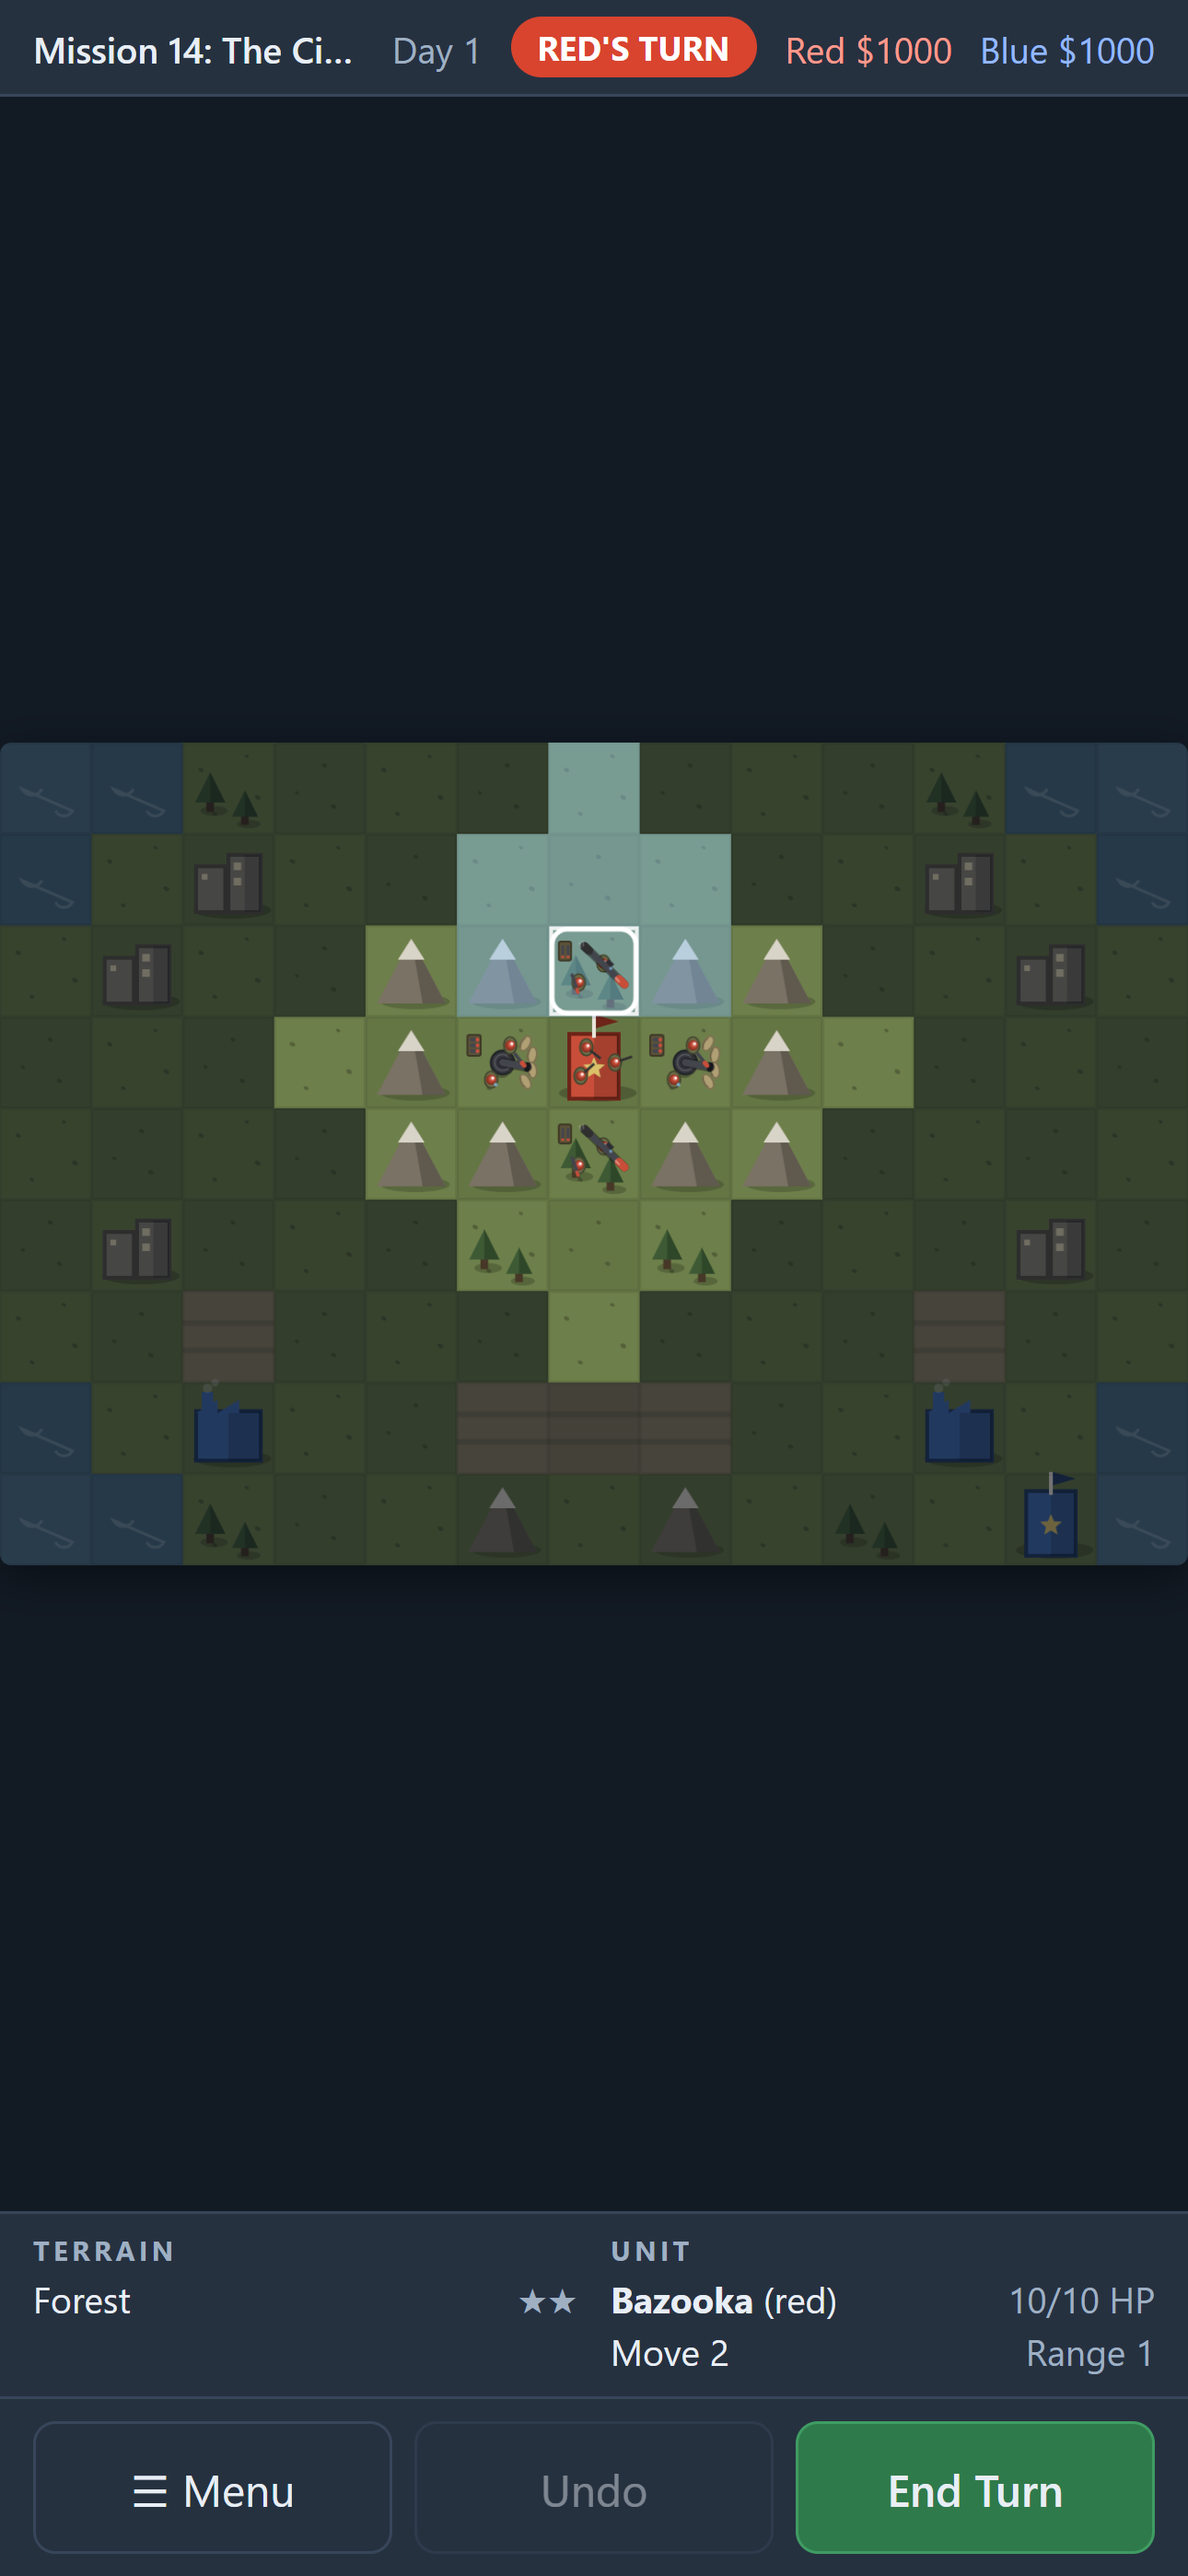
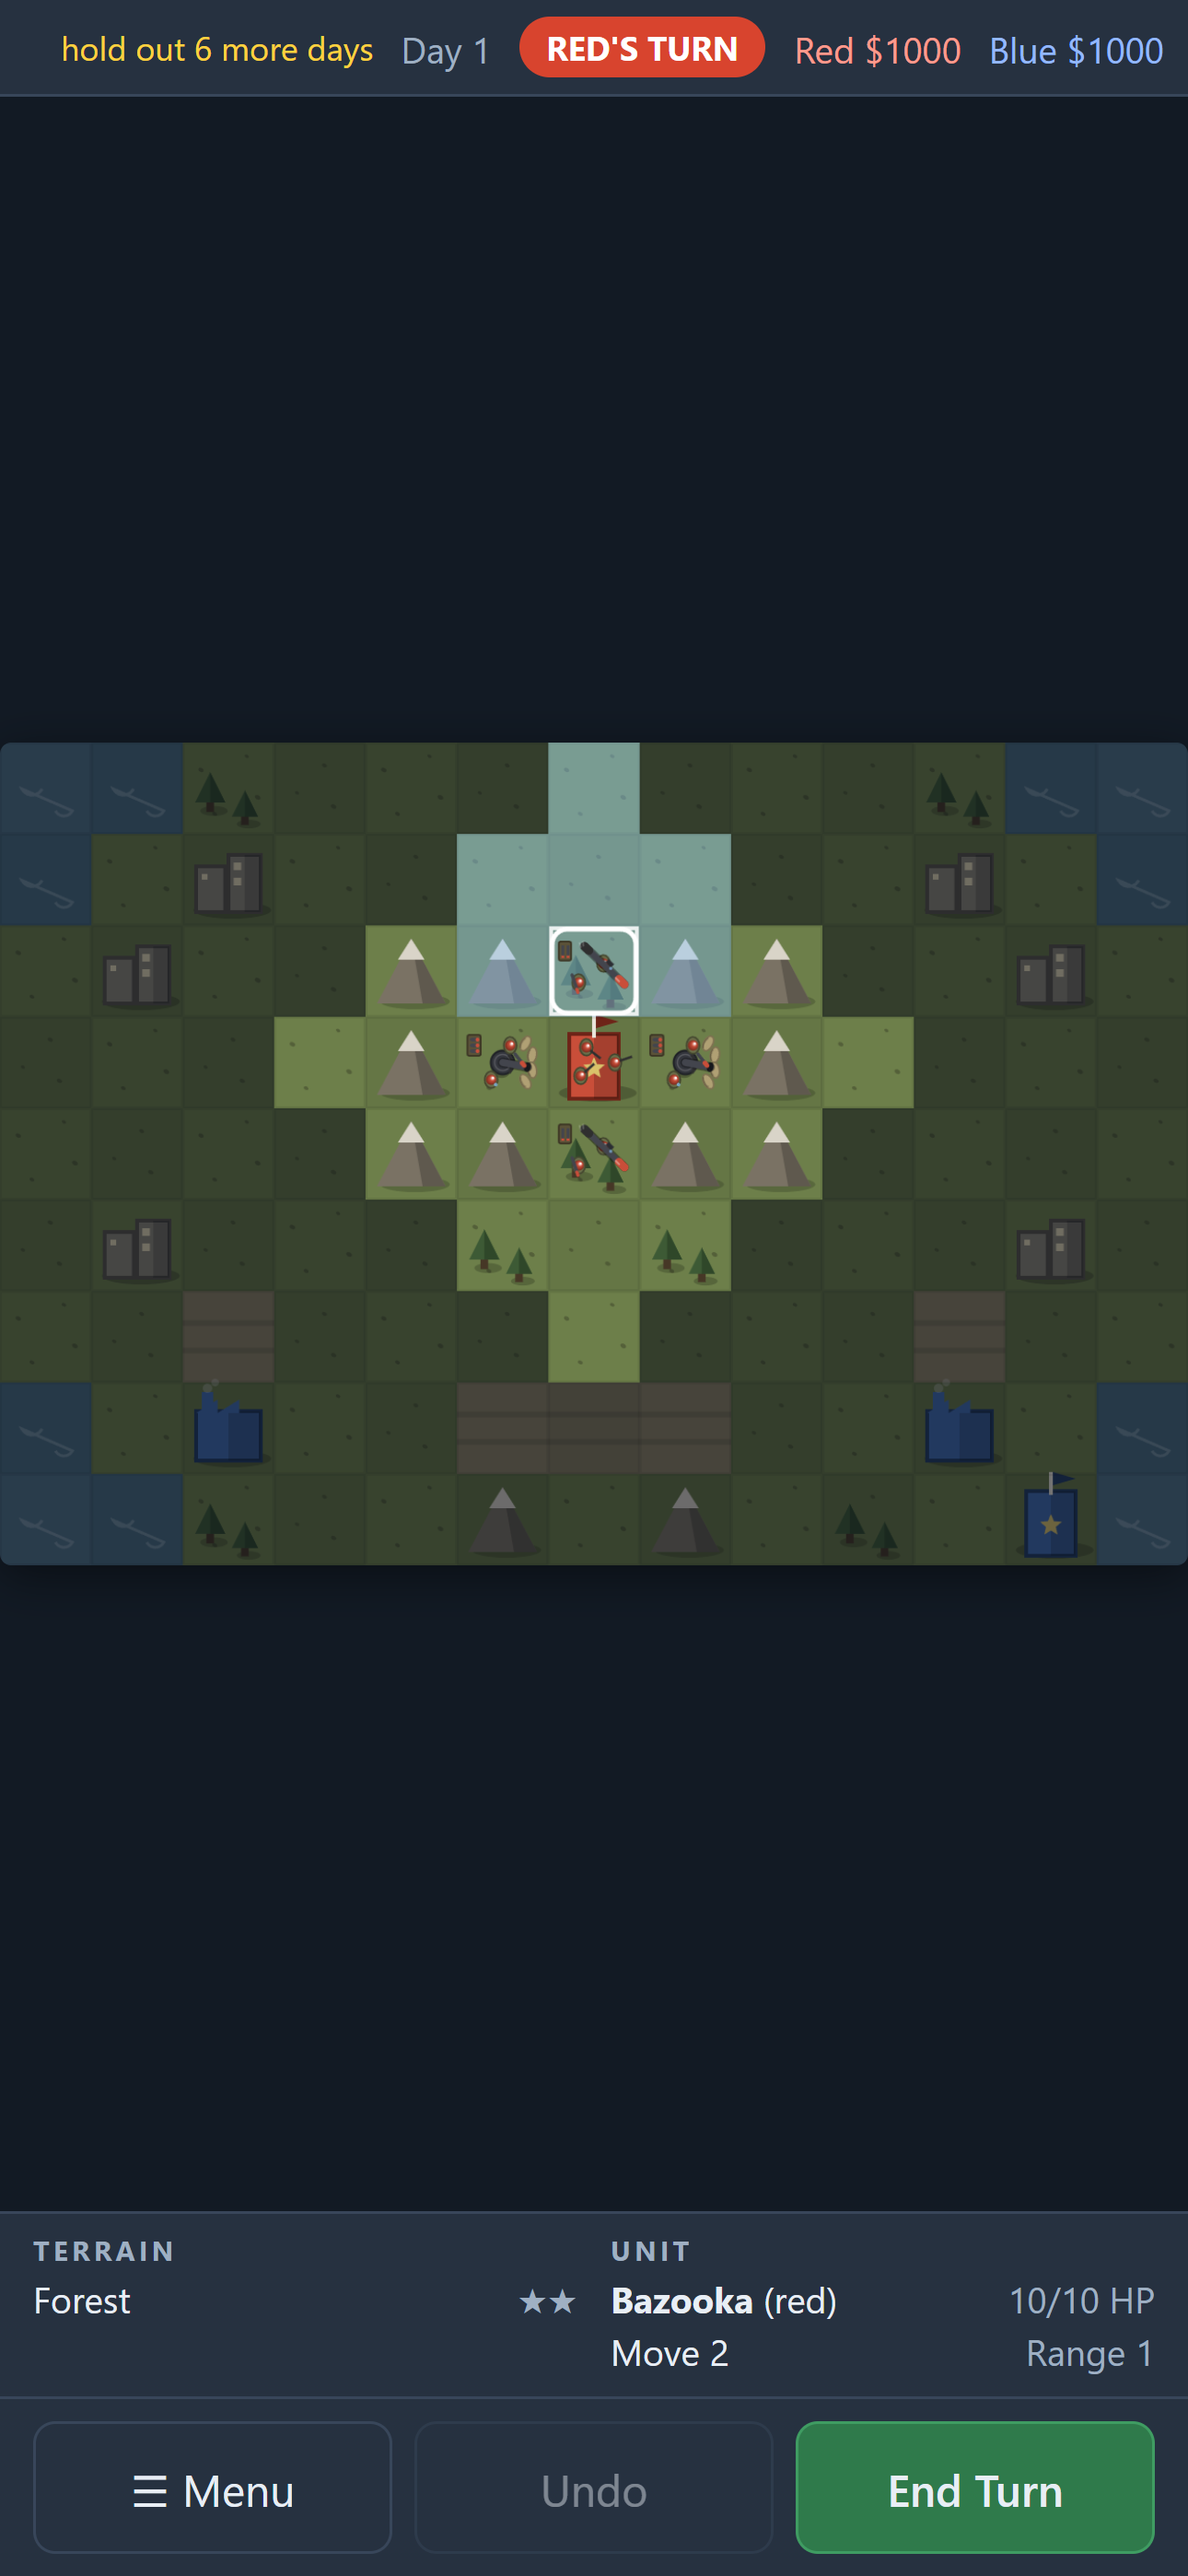
Make the AI threat-aware, show the objective as a HUD pill, bump to 0.3.0
AI: a unit's destination was scored only by progress toward its goal
plus a small terrain bonus, so units marched into range one at a time
and died — the balance report showed a hard red losing symmetric maps
whenever it moved first. threatAt() now estimates the damage (in funds)
every visible enemy could deal to the unit at a candidate tile next
turn and subtracts it from both positional and attack scores.

Pure caution produced standoffs, so threatWeight() scales it: zero on
easy (it charges), 0.06 normal, 0.1 hard, reduced when the AI's army is
the stronger one, fading with the day count, and zero for Blue against a
survive objective where the clock favours the defender. AI-vs-AI, 16 of
18 missions now resolve (was 13 with the first cut and 16 before, but
those ended in day-4 wipes); games last 10-30 days with either side able
to win. Existing AI and difficulty tests unchanged.

HUD: the campaign objective ("hold out 4 more days", "hold 5/8
buildings") is its own gold pill instead of part of the title, so it
survives on narrow phones where the title truncates.

Version 0.3.0 in package.json, build.gradle and the app.

diff --git a/src/ai/ai.ts b/src/ai/ai.ts
@@ -39,6 +39,7 @@ function bestUnitCommand(state: GameState, ready: Unit[], difficulty: AiDifficul
     enemies = enemies.filter((e) => canSeeUnit(state, ai, e, sight));
   }
   const fields = new FieldCache(state, ai, enemies);
+  const caution = threatWeight(state, ai, enemies, difficulty);
 
   let best: Candidate | null = null;
   const consider = (score: number, cmd: Command) => {
@@ -56,8 +57,9 @@ function bestUnitCommand(state: GameState, ready: Unit[], difficulty: AiDifficul
       const [x, y] = k.split(',').map(Number);
       const moved = x !== unit.x || y !== unit.y;
       const stars = TERRAIN_DATA[tileAt(state, x, y).terrain].defenseStars;
+      const danger = caution === 0 ? 0 : caution * threatAt(state, unit, x, y, enemies);
 
-      consider(positionalScore(state, unit, x, y, stars, goalField, enemies), {
+      consider(positionalScore(state, unit, x, y, stars, goalField, enemies) - danger, {
         kind: 'move',
         unitId: unit.id,
         to: { x, y },
@@ -79,6 +81,12 @@ function bestUnitCommand(state: GameState, ready: Unit[], difficulty: AiDifficul
         if (difficulty === 'hard' && target.hp <= 50) {
           score += 0.2 * UNIT_DATA[target.type].cost;
         }
+        // Firing from an exposed tile still leaves the unit there afterwards;
+        // a kill removes that target from next turn's threats.
+        if (caution > 0) {
+          const kill = computeDamage(state, unit, target) >= target.hp;
+          score -= caution * threatAt(state, unit, x, y, enemies, kill ? target.id : undefined);
+        }
         consider(score, {
           kind: 'move',
           unitId: unit.id,
@@ -94,6 +102,56 @@ function bestUnitCommand(state: GameState, ready: Unit[], difficulty: AiDifficul
 }
 
 // ----- scoring -------------------------------------------------------------
+
+/**
+ * How much the AI cares about ending a move where the enemy can hit it.
+ * Easy charges blindly; hard is careful enough to hold formation and let
+ * the other side come to it. Units are in funds, so a light tank taking
+ * an expected 50% from one tank costs about 200 points on normal — enough
+ * to prefer a tile one step back, not enough to refuse a good attack.
+ */
+const THREAT_WEIGHT: Record<AiDifficulty, number> = { easy: 0, normal: 0.06, hard: 0.1 };
+
+function armyValue(units: Unit[]): number {
+  return units.reduce((sum, u) => sum + (UNIT_DATA[u.type].cost * u.hp) / 100, 0);
+}
+
+/**
+ * Caution for this turn. Pure threat-avoidance makes two careful armies
+ * stare at each other forever, so it scales with relative strength (a
+ * superior army presses), fades as the days pass (someone has to go), and
+ * is dropped entirely when the AI defends against a survive objective —
+ * there, the clock is the enemy and attacking is the whole job.
+ */
+function threatWeight(state: GameState, ai: PlayerId, enemies: Unit[], difficulty: AiDifficulty): number {
+  const base = THREAT_WEIGHT[difficulty];
+  if (base === 0) return 0;
+  if (state.objective?.kind === 'survive' && ai === 'blue') return 0;
+  const mine = armyValue(state.units.filter((u) => u.owner === ai));
+  const theirs = armyValue(enemies);
+  // Only ever less cautious, never more: a weaker army that hides loses the
+  // income war anyway, so it may as well fight for ground.
+  const ratio = theirs / Math.max(1, mine);
+  const strength = Math.min(1, ratio * ratio);
+  const tempo = Math.max(0.2, 1 - state.day / 25);
+  return base * strength * tempo;
+}
+
+/** Expected damage, in funds, the enemy could deal to `unit` at (x, y) next turn. */
+function threatAt(state: GameState, unit: Unit, x: number, y: number, enemies: Unit[], ignoreId?: number): number {
+  const probe: Unit = { ...unit, x, y };
+  const cost = UNIT_DATA[unit.type].cost;
+  let total = 0;
+  for (const e of enemies) {
+    if (e.id === ignoreId) continue;
+    const ed = UNIT_DATA[e.type];
+    // Indirect units can't move and fire, so only their current range counts.
+    const reach = isIndirect(e) ? ed.maxRange : ed.move + ed.maxRange;
+    if (manhattan(e.x, e.y, x, y) > reach) continue;
+    total += (computeDamage(state, e, probe) / 100) * cost;
+  }
+  return total;
+}
 
 function positionalScore(
   state: GameState,

diff --git a/src/ui/controller.ts b/src/ui/controller.ts
@@ -59,6 +59,7 @@ export interface GameDom {
   shareCopy: HTMLElement;
   shareClose: HTMLElement;
   hudTitle: HTMLElement;
+  hudGoal: HTMLElement;
   dayLabel: HTMLElement;
   turnChip: HTMLElement;
   fundsRed: HTMLElement;
@@ -980,10 +981,7 @@ export class GameController {
   private sessionTitle(): string {
     const c = this.config;
     if (!c) return '';
-    if (c.kind === 'campaign') {
-      const goal = this.objectiveHint();
-      return `Mission ${c.mission + 1}: ${MISSIONS[c.mission].name}${goal ? ` · ${goal}` : ''}`;
-    }
+    if (c.kind === 'campaign') return `Mission ${c.mission + 1}: ${MISSIONS[c.mission].name}`;
     const map = (c.map ?? CROSSFIRE_VALLEY).name;
     if (c.kind === 'skirmish') return `${map} · vs Computer`;
     if (c.kind === 'hotseat') return `${map} · Local 2P`;
@@ -993,6 +991,7 @@ export class GameController {
   private refreshHud(): void {
     const s = this.state;
     this.dom.hudTitle.textContent = this.sessionTitle();
+    this.dom.hudGoal.textContent = this.objectiveHint() ?? '';
     this.dom.dayLabel.textContent = `Day ${s.day}`;
     this.dom.turnChip.textContent = s.winner ? `${s.winner} wins` : `${s.current}'s turn`;
     this.dom.turnChip.className = `chip ${s.winner ?? s.current}`;

diff --git a/src/ui/app.ts b/src/ui/app.ts
@@ -18,7 +18,7 @@ import {
 } from './save';
 import { sfx } from './sound';
 
-export const APP_VERSION = '0.2.0';
+export const APP_VERSION = '0.3.0';
 
 type ScreenName = 'menu' | 'campaign' | 'skirmish' | 'settings' | 'game';
 type Opponent = 'ai' | 'hotseat' | 'pvp';
@@ -105,6 +105,7 @@ export class App {
       shareCopy: el('share-copy'),
       shareClose: el('share-close'),
       hudTitle: el('hud-title'),
+      hudGoal: el('hud-goal'),
       dayLabel: el('day-label'),
       turnChip: el('turn-chip'),
       fundsRed: el('funds-red'),

diff --git a/index.html b/index.html
@@ -116,6 +116,7 @@
       <section id="screen-game" class="screen">
         <header id="hud">
           <span id="hud-title"></span>
+          <span id="hud-goal" class="goal"></span>
           <span id="day-label" class="stat"></span>
           <span id="turn-chip" class="chip"></span>
           <span id="funds-red" class="stat funds-red"></span>

diff --git a/src/style.css b/src/style.css
@@ -313,8 +313,18 @@ body {
 }
 
 #hud .stat,
-#hud .chip {
+#hud .chip,
+#hud .goal {
   flex-shrink: 0;
+}
+
+#hud .goal {
+  color: var(--gold);
+  font-size: 12px;
+}
+
+#hud .goal:empty {
+  display: none;
 }
 
 .stat {
